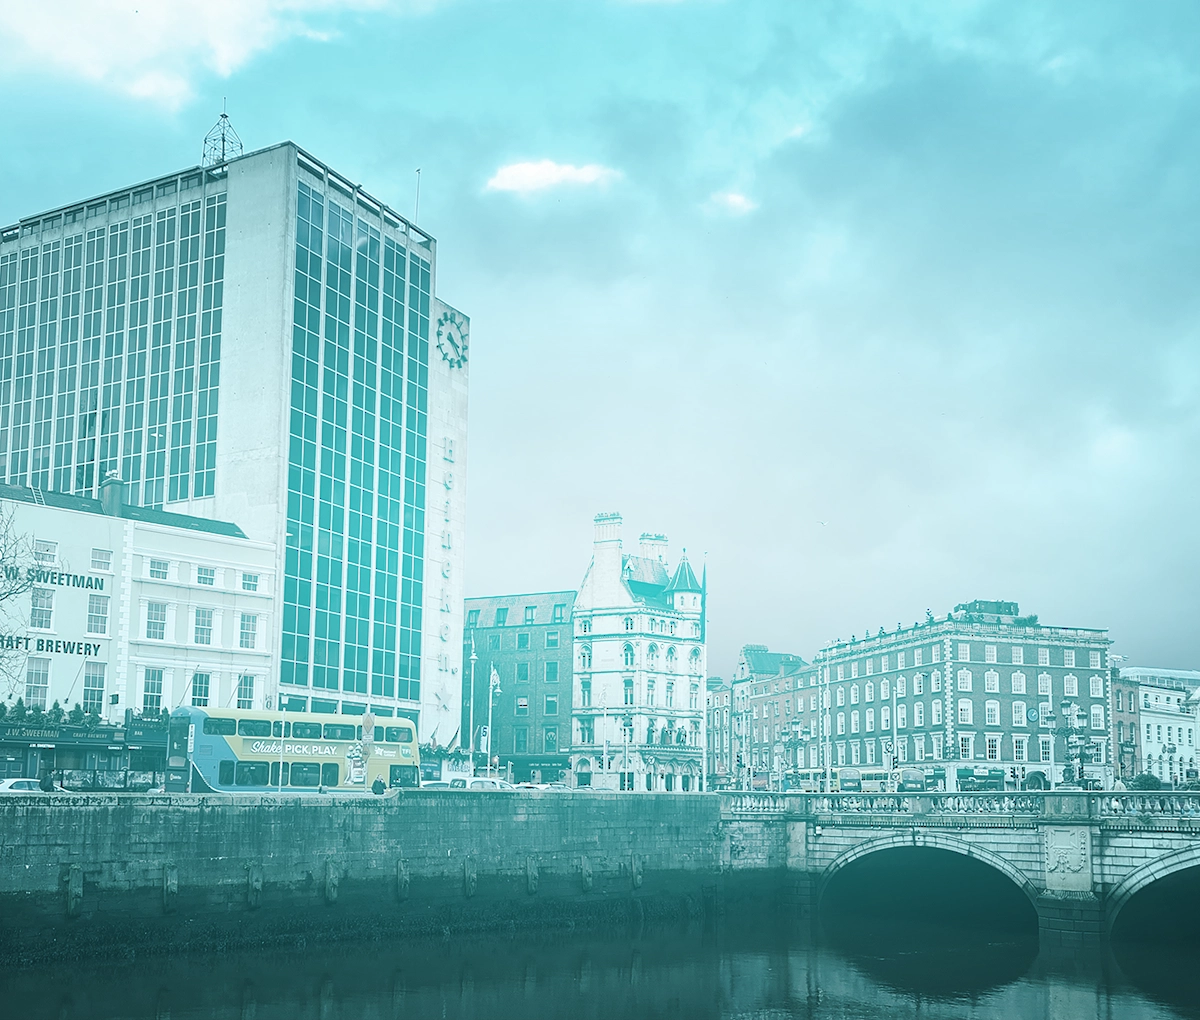
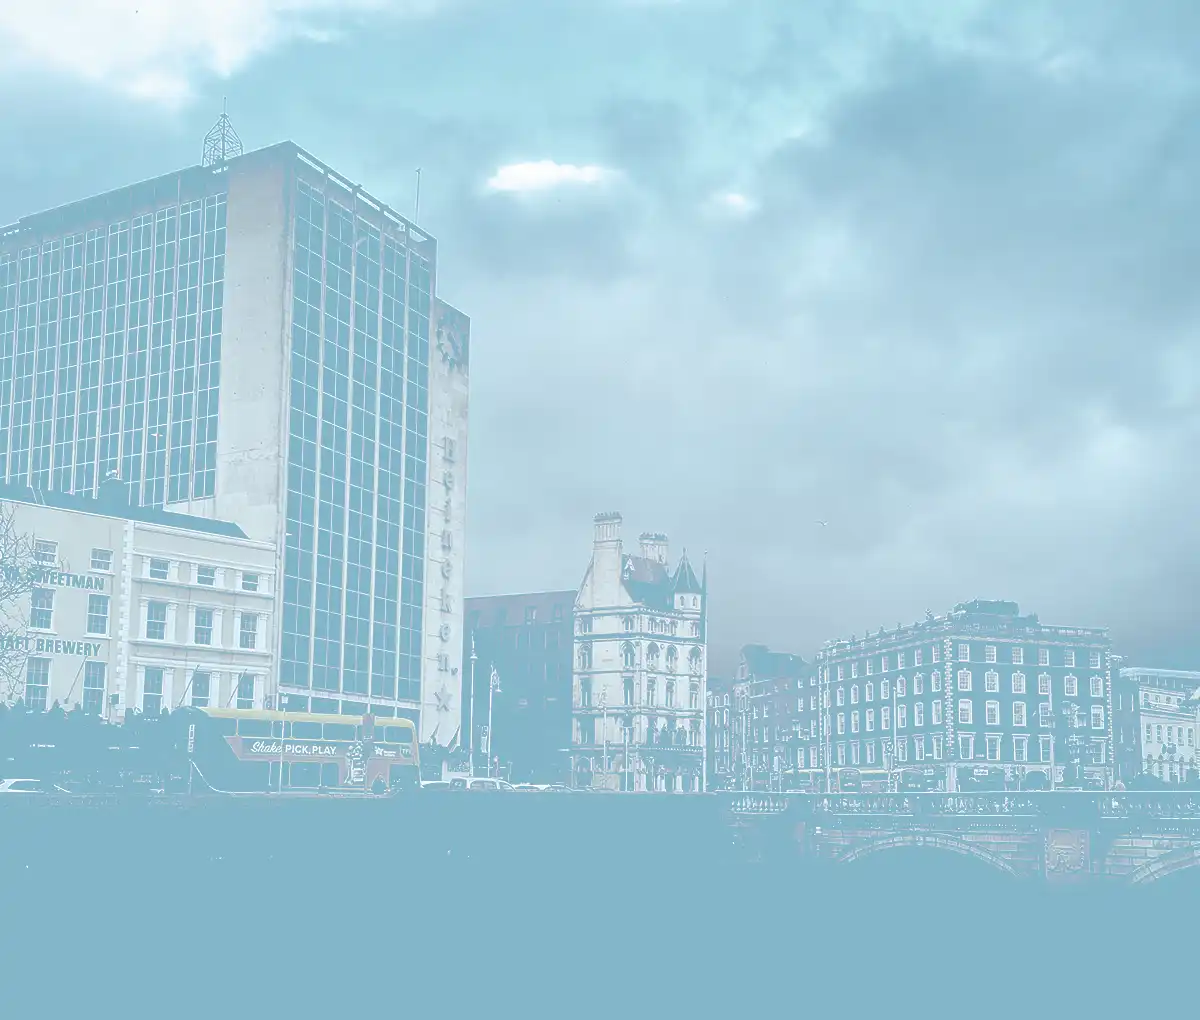
Adjust background image and cover text with improved contrast for accesibility

diff --git a/assets/css/style.css b/assets/css/style.css
@@ -9,13 +9,7 @@
     border: 0;
 }
 
-/*for testing purposes
-nav {
-    border: 1px solid red;
-}
-*/
 #menu-styling {
-    /*border: 1px solid cyan;*/
     height: 5vh;
     width: 100%;
 }
@@ -35,6 +29,7 @@ h1 {
 h2 {
     font-family: "canvas-script", sans-serif;
     font-weight: 600;
+    color: #000;
 }
 
 h3 {
@@ -54,13 +49,31 @@ hr {
     border: 1px dotted black;
 }
 
+/*General Centering container setup from w3schools*/
+
+.container {
+    height: 200px;
+    position: relative;
+    border: 3px solid green;
+}
+
+.center {
+    margin: 0;
+    position: absolute;
+    top: 50%;
+    left: 50%;
+    -ms-transform: translate(-50%, -50%);
+    transform: translate(-50%, -50%);
+}
+
+
 /* Navigation Styling */
 
 #menu {
-   list-style-type:none;
-   text-align:center;
-   padding:0;
-   margin-top:1rem;
+    list-style-type: none;
+    text-align: center;
+    padding: 0;
+    margin-top: 1rem;
 }
 
 /*Reminder: this is 20% because: there are 3 element blocks with 2 "space" block on either end. 5/100=20%
@@ -68,7 +81,7 @@ edit: 21% works better for some reason - look up why
 
 Update 15/06: Never mind, I'm not sure about this. Might use flexbox + dropdown for media query*/
 #menu li {
-    display:inline-block;
+    display: inline-block;
     margin: 0 3rem;
 }
 
@@ -83,18 +96,20 @@ Update 15/06: Never mind, I'm not sure about this. Might use flexbox + dropdown 
 
 /* Hero image section */
 #hero-outer {
-    height: 400px;
+    border: 1px solid magenta;
+
+    height: 800px;
     width: 100%;
     overflow: hidden;
     position: relative;
 }
 
 #hero-image {
-    height: 400px;
-    width:100%;
+    height: 800px;
+    width: 100%;
     background: url(/images/cover-image-town.webp) no-repeat center center;
     background-size: cover;
-    box-shadow: 5px 0px 30px 10px #008080 inset;
+    box-shadow: 5px 0px 30px 10px #53758c inset;
     /*animation-name: hero-zoom;
     animation-duration: 3s;
     animation-fill-mode: forwards;*/
@@ -102,21 +117,9 @@ Update 15/06: Never mind, I'm not sure about this. Might use flexbox + dropdown 
 
 #cover-text {
     font-size: 190%;
-    font-family: "canvas-script", sans-serif;
-    letter-spacing: 1px;
-    font-weight: bolder;
     text-align: center;
-    vertical-align: middle;
-    width: 1200px;
-    height: 80px;
-
-    text-shadow: 2px 2px 4px #000;
-
-    position: absolute;
-    left: 5%;
-    top: 30%;
-    padding-top: 10px;
-    padding-left: 10px;
+    width: 80%;
+    height: 80%;
 
     animation-name: fade-in;
     animation-duration: 2s;
@@ -124,9 +127,6 @@ Update 15/06: Never mind, I'm not sure about this. Might use flexbox + dropdown 
     border: 1px solid red;
 }
 
-#cover-text h2 {
-    color: white;
-}
 
 /* zoom anim sample */
 /*@keyframes hero-zoom {
@@ -152,18 +152,18 @@ Update 15/06: Never mind, I'm not sure about this. Might use flexbox + dropdown 
 
 /* Biography Styling*/
 
+.flex-biography {
+    display: flex;
+
+}
+
 .section-header {
     text-align: center;
     font-size: 300%;
     color: #000;
 }
 
-.container {
-    display: flex;
-    justify-content: space-between;
-    flex-wrap: nowrap;
-    margin: 50px 0px;
-}
+
 
 .biography {
     border: 1px solid red;

diff --git a/index.html b/index.html
@@ -24,36 +24,42 @@
                     <li>
                         <a href="#">Home</a>
                     </li>
-                     <li>
+                    <li>
                         <a href="#">About Us</a>
                     </li>
-                    
+
                     <li>
                         <a href="#">Past Events</a>
                     </li>
                     <li>
                         <a href="#">Gallery</a>
                     </li>
-                   <li>
+                    <li>
                         <a href="#">Join us!</a>
                     </li>
-                    
+
                 </ul>
             </nav>
         </div>
     </header>
     <!---- Hero image, logo -->
     <section id="hero-outer">
-        <div id="hero-image"></div>
-        <div id="cover-text" class="container">
-            <h2>Your local meetup for animation professionals</h2>
+        <div id="hero-image" class="container">
+            <div id="cover-text" class="center">
+                <h2>The meetup group for Dublin's animation community</h2>
+                <br>
+                <p>Lorem ipsum dolor sit amet consectetur adipisicing elit. Labore perferendis sint laboriosam debitis
+                    architecto voluptatum accusamus recusandae non adipisci ad, aut officia aperiam harum a consequatur?
+                    Praesentium voluptatibus rem cupiditate.</p>
+            </div>
         </div>
+
 
     </section>
     <!---- About the organisers  -->
     <section id="about-people">
         <h2 class="section-header">About the organisers</h2>
-        <div class="container">
+        <div class="flex-biography">
             <div class="biography">
                 <img src="images/temp-portrait-placeholder.jpg" alt="A picture of Carla">
                 <h3>Carla Lennon</h3>
